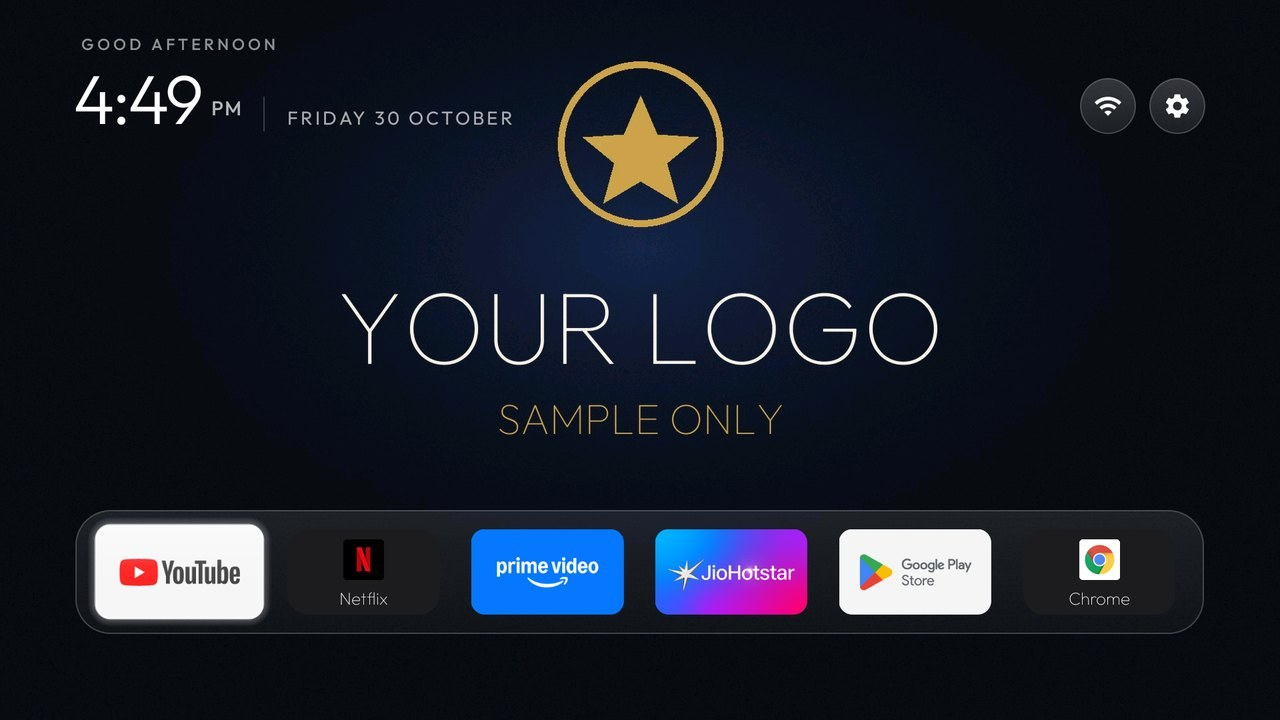
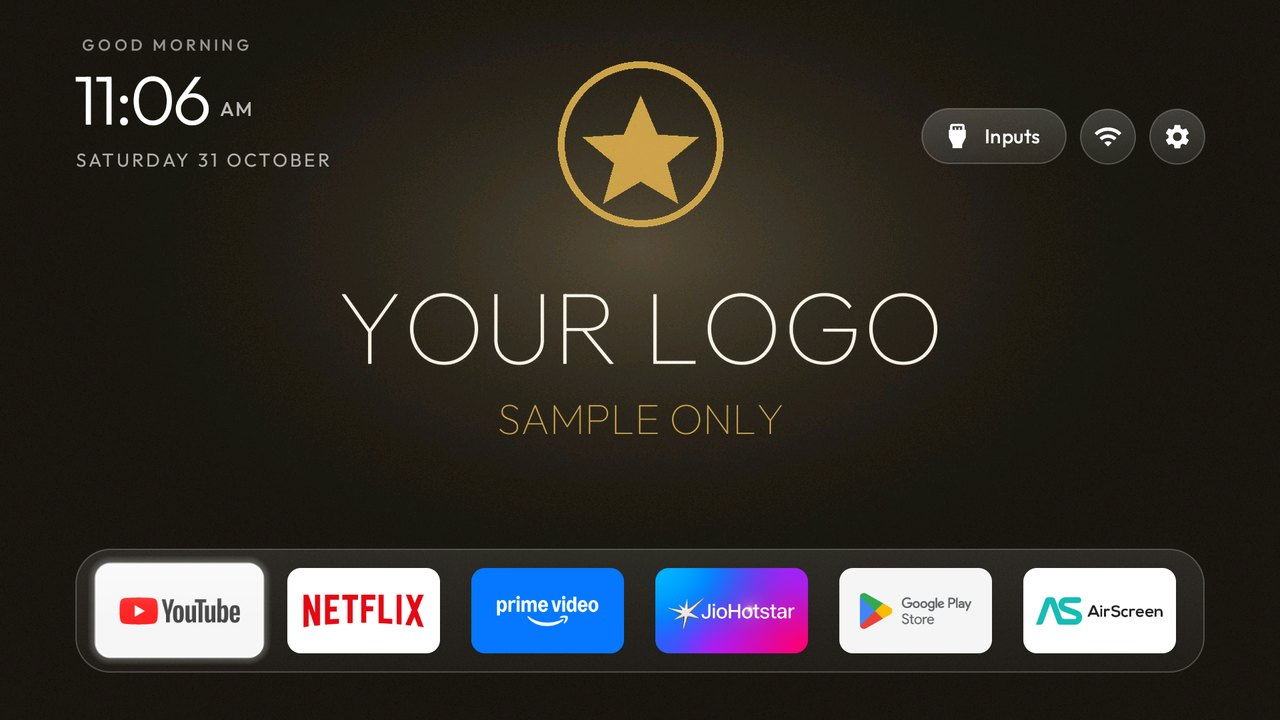
Docs: tested on a TCL Google TV, and where the location really comes from

diff --git a/README.md b/README.md
@@ -67,18 +67,23 @@ highlight glides instead of snapping. These numbers are for Design 1 with 7 apps
 | **Stock Home, before** (thumbnails blurred) | **Settings still work** |
 | ![Stock home screen](assets/screenshots/i96-8k/i96-8k-stock-home-blurred.jpg) | ![Settings panel](assets/screenshots/i96-8k/i96-8k-settings-v1.0.jpg) |
 
-All screenshots come from a real box. "YOUR LOGO" is a sample used only for these pictures. If you give no logo, that space stays empty.
+All screenshots come from real devices. "YOUR LOGO" is a sample used only for these pictures. If you give no logo, that space stays empty.
 
 ## Compatibility
 
 | Level | Devices | What you get |
 |---|---|---|
 | **Verified** | <img src="devices/i96-8k-hi3798mv300/box.jpg" width="110" alt="I96 8K retail box"><br>I96 8K, firmware `I96_8K-20251222-301SMSX300` | Everything, including the tested debloat profile |
+| **Tested, universal mode** | TCL 55T89C, Google TV on Android 14 | Launcher, both designs, your logo, Inputs button, ad blocking and undo. Nothing is disabled: Google's launcher stays, and the Home button opens TVBoost. Restarting the TV has not been tested yet |
 | **Universal, untested** | Other Android TVs and boxes on Android 8 or newer with ADB access | Launcher, designs, your logo, ad blocking and undo. No debloat |
 | **Not supported** | Samsung Tizen, LG webOS, Roku | These do not run Android |
 
-Universal mode has only been tested on the verified box so far. Android 11+ devices can need ADB pairing first, and some brands make it
-harder to replace Home. If you try another device, please [report what happened](../../issues), so it can be added here. Better still,
+![TVBoost on a TCL Google TV](assets/screenshots/tcl-55t89c/tcl-55t89c-home.jpg)
+
+Universal mode has been tested on the verified box and on one branded TV so far, a TCL running Google TV. On Google TV the installer disables
+nothing, because the setup wizard would take over Home and turning that off can delete the saved Wi-Fi network. Instead Google's launcher stays,
+and the Home button opens TVBoost. Android 11+ devices can need ADB pairing first, and some brands make it harder to replace Home. If you try
+another device, please [report what happened](../../issues), so it can be added here. Better still,
 [add a device profile](devices/README.md).
 
 ## Install
@@ -143,9 +148,11 @@ The launcher has no internet permission in any design. Design 2 installs a separ
 screen and no background service, and it asks [Open-Meteo](https://open-meteo.com/) for the temperature, at most every 30 minutes, and only while the
 welcome screen is showing. Sunrise and sunset are calculated on the device.
 
-Nobody sets a location. Each device works out its own the first time the welcome screen opens, and again once a day: it uses Android's location if
-the device has one, and most TVs do not, so otherwise it asks [ipapi.co](https://ipapi.co/) where its internet connection is. That service sees the
-device's public IP address, and it can be off by a nearby city. Pass `--city <name>` to `install.sh` or `design.sh` to fix the city if it is wrong. Open-Meteo's free service is for
+Nobody sets a location. Each device works out its own the first time the welcome screen opens, and again once a day, by asking
+[ipapi.co](https://ipapi.co/) where its internet connection is. That service sees the device's public IP address, and it can be off by a nearby city.
+The helper tries Android's own location first, but Android does not give that to a background helper like this one, so in practice the internet
+connection decides: on the tested Android 14 TV, Android refused and the city still came out right. Pass `--city <name>` to `install.sh` or
+`design.sh` to fix the city if it is wrong. Open-Meteo's free service is for
 non-commercial use, so check its terms before using this in a business.
 
 The RAM and storage tile updates only while Home is on screen. It reads storage from the system's `df` tool, because one tested box reports

diff --git a/CHANGELOG.md b/CHANGELOG.md
@@ -6,12 +6,14 @@ This project uses semantic versioning. Device support is tracked in [docs/DEVICE
 
 First public release.
 
-**Verified devices:** I96 8K, build `I96_8K-20251222-301SMSX300`, Android 9. Other Android 8+ devices can use universal mode, untested.
+**Verified devices:** I96 8K, build `I96_8K-20251222-301SMSX300`, Android 9. Also tested with universal mode: TCL 55T89C, Google TV on Android 14. Other Android 8+ devices can use universal mode, untested.
 
 **Added**
 
 - One-command install with a dry-run mode, and firmware matching that refuses unverified boxes
 - Universal mode for other Android 8+ devices: launcher, design and DNS, no debloat
+- Google TV support: nothing is disabled, the stock launcher stays, and the Home button opens the launcher
+- `--no-reboot`, for devices where network debugging may not survive a restart
 - Backup before every install, and one-command undo
 - A short health check after each install
 - Saved designs that switch in seconds: `01-navy-gold` and `02-liquid-glass`
@@ -28,7 +30,8 @@ First public release.
 
 **Known issues**
 
-- Automatic location was tested through the internet connection on the I96 8K, where it found the right city. The path through Android's own location service is untested, because that box has none. A connection-based city can be off by a nearby city
+- Automatic location comes from the internet connection, and it found the right city on both tested devices. It can be off by a nearby city. Android does not give its own location to a background helper, so that path does not help on the tested Android 14 TV
+- On Google TV, restarting the TV and the remote's app buttons have not been tested yet
 - Installing or switching a design restarts Home, which takes the screen from any app that is playing
 - On the I96 8K, a restart command froze twice and needed a power cycle, and twice the box dropped off the network during app installs and reset itself. The cause was not found.
 - On the I96 8K, about 1 KB still goes to the vendor's server at each boot. The sender was not found.

diff --git a/docs/DEVICE_COMPATIBILITY.md b/docs/DEVICE_COMPATIBILITY.md
@@ -11,7 +11,17 @@
 ## Universal mode
 
 Any other Android 8+ device with ADB access can use `./install.sh --universal <ip>`. It adds the launcher, a design, your logo and DNS,
-and disables nothing except the stock launcher. It has only been tested on the verified box so far.
+and disables nothing except the stock launcher. On Google TV it does not disable that either: the stock launcher stays, and the Home button
+opens the new launcher.
+
+### Tested with universal mode
+
+| Device | Firmware build | Android | Result |
+|---|---|---|---|
+| TCL 55T89C | `UTT2.250416.001 AU02` | 14 (SDK 34), Google TV | Install in about 70 seconds with nothing disabled. Both designs, logo and no logo, Inputs (HDMI 1 to 4), RAM and storage tile, automatic location, ad blocking and undo all worked. The Home button opened the launcher from an app, from Settings and from a TV input |
+
+Not tested on that TV yet: restarting it with the launcher installed (run with `--no-reboot`), and the remote's app buttons. Undo was checked by
+comparing every app, setting and Home entry with a snapshot taken first.
 
 ## Unverified
 
@@ -21,7 +31,7 @@ refuses the full setup on these and changes nothing unless you ask for `--univer
 | Known limits | Detail |
 |---|---|
 | Android 11 and newer | Network ADB often needs pairing first |
-| Google TV | Home is harder to replace, and the setup wizard can claim Home |
+| Google TV | The setup wizard claims Home once the stock launcher is off, so the installer leaves it on. Never disable the wizard: that can delete the saved Wi-Fi network |
 | Samsung Tizen, LG webOS, Roku | Not supported: they do not run Android |
 
 ## Why matching is this strict

diff --git a/docs/PROJECT_INVENTORY.md b/docs/PROJECT_INVENTORY.md
@@ -34,7 +34,7 @@ build, and optional parts can be turned off.
 | `tools/device_match.py` | Match a box to a profile, or refuse | Shared |
 | `tools/backup.py` | Recovery manifest before each install | Shared |
 | `tools/choose_apps.py` | Ask which apps to keep before anything is disabled | Shared |
-| `tools/profile.py` | Name for the welcome screen, kept on this computer, and the optional `--city` lookup | Optional |
+| `tools/profile.py` | Name for the welcome screen, kept on this computer, the optional `--city` lookup, and the stock launcher that stays Home | Optional |
 | `tools/common.sh` | Find the device's ADB port | Shared |
 | `tools/recovery.py`, `tools/disable.sh`, `tools/restore.sh` | Undo record, guarded disabling, restoring | Shared |
 | `tools/check.py` | Find what a firmware update changed | Shared |

diff --git a/docs/DESIGN_ASSET_CATALOG.md b/docs/DESIGN_ASSET_CATALOG.md
@@ -44,6 +44,7 @@ picture of a design is stored here.
 |---|---|
 | `assets/branding/sample-logo.png` | Neutral placeholder for screenshots and tests |
 | `devices/i96-8k-hi3798mv300/box.jpg` | Cropped photo of the retail box, with location data removed |
+| `assets/screenshots/tcl-55t89c/tcl-55t89c-home.jpg` | Real screenshot of Design 2 on a TCL Google TV, with the sample logo |
 
 ## Fonts and icons
 
